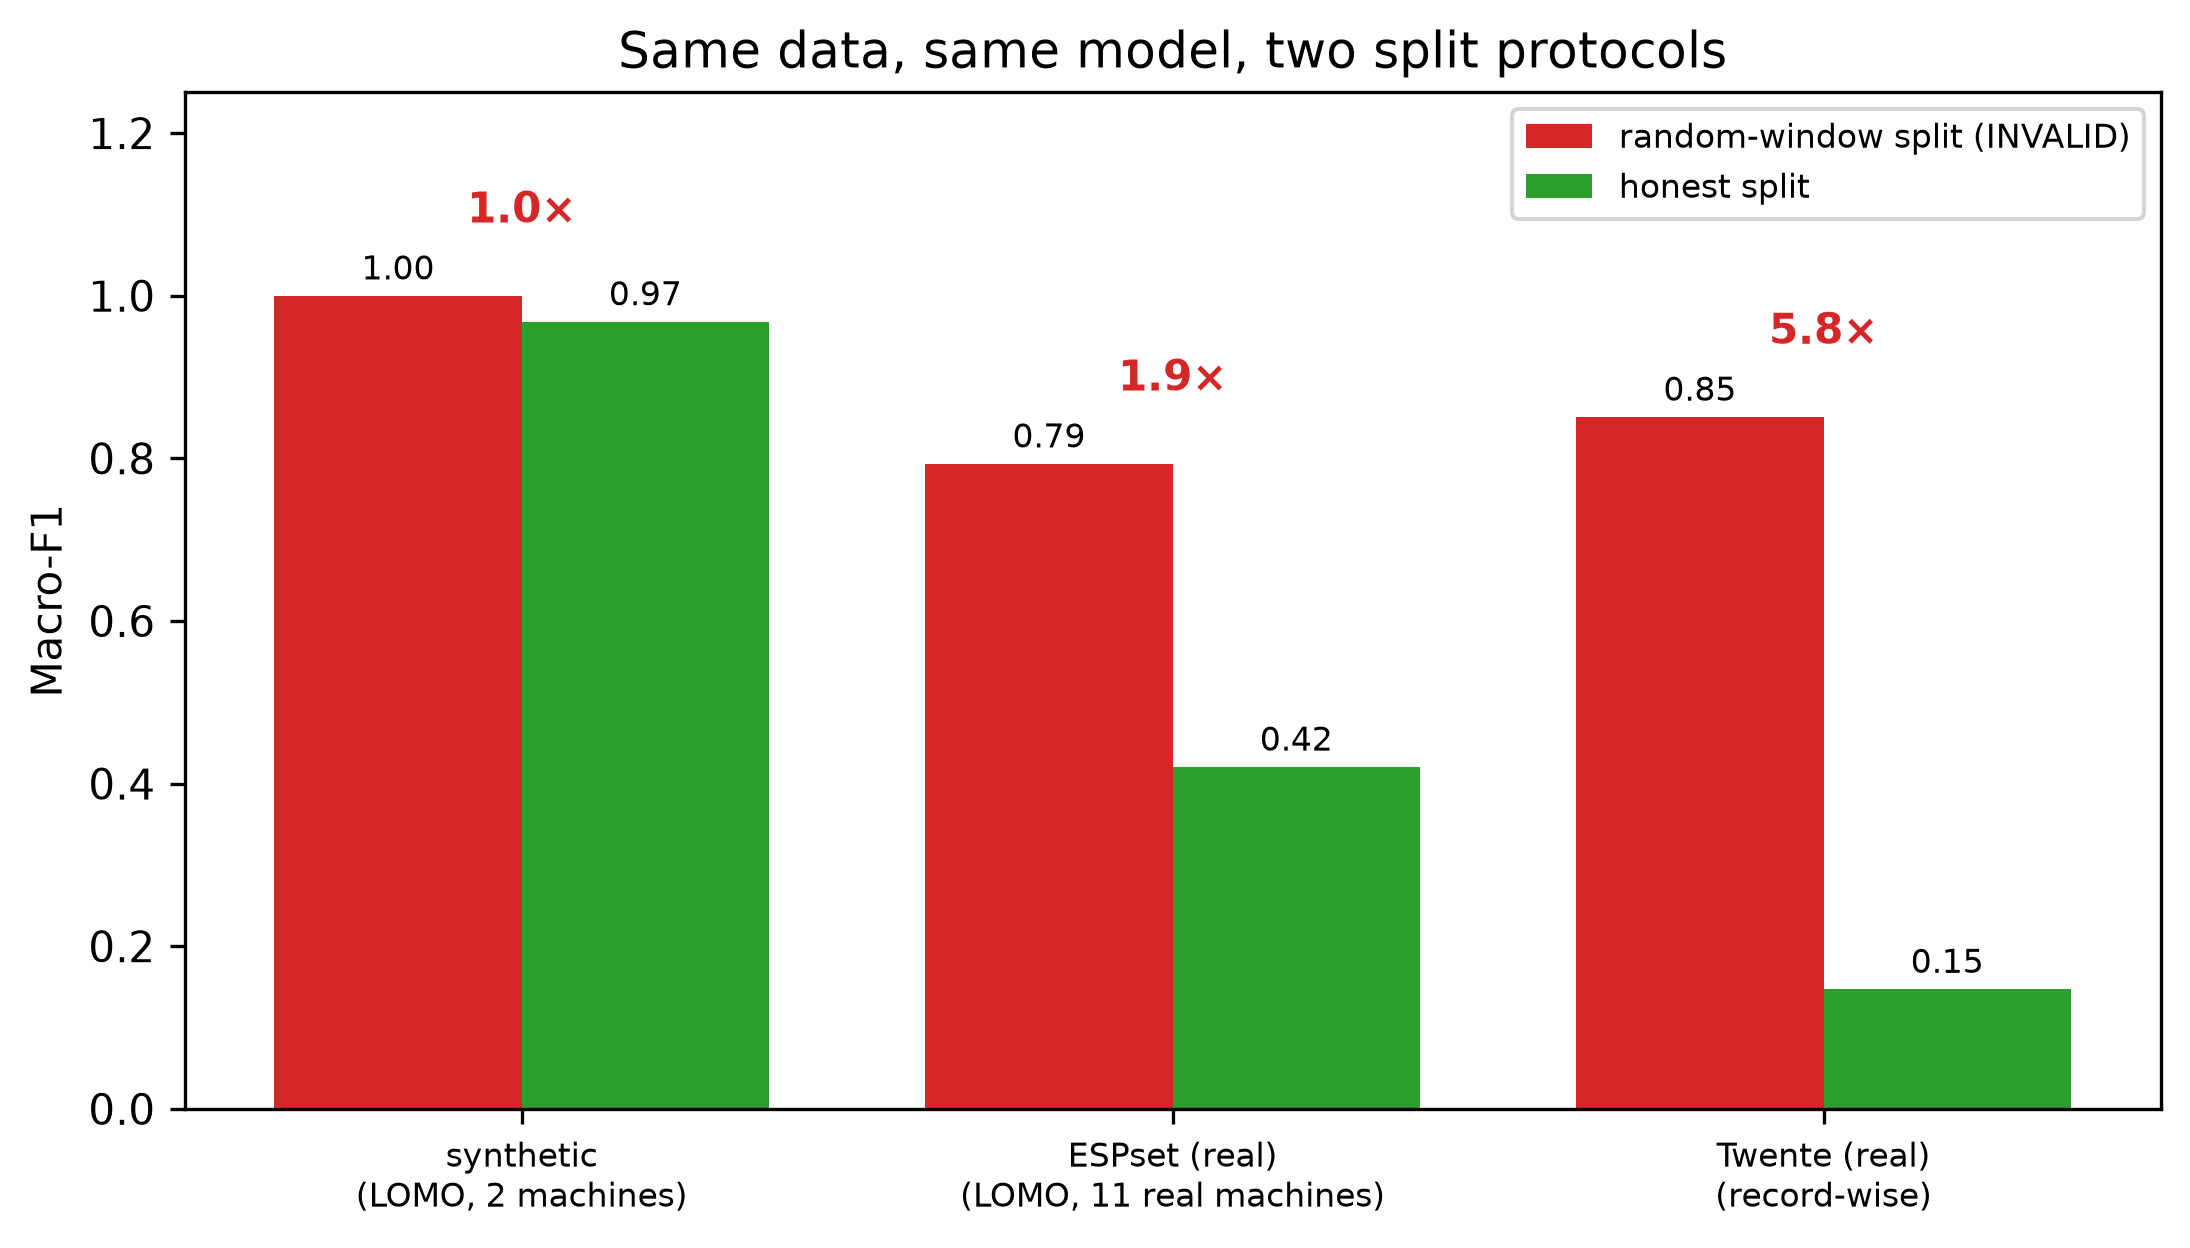
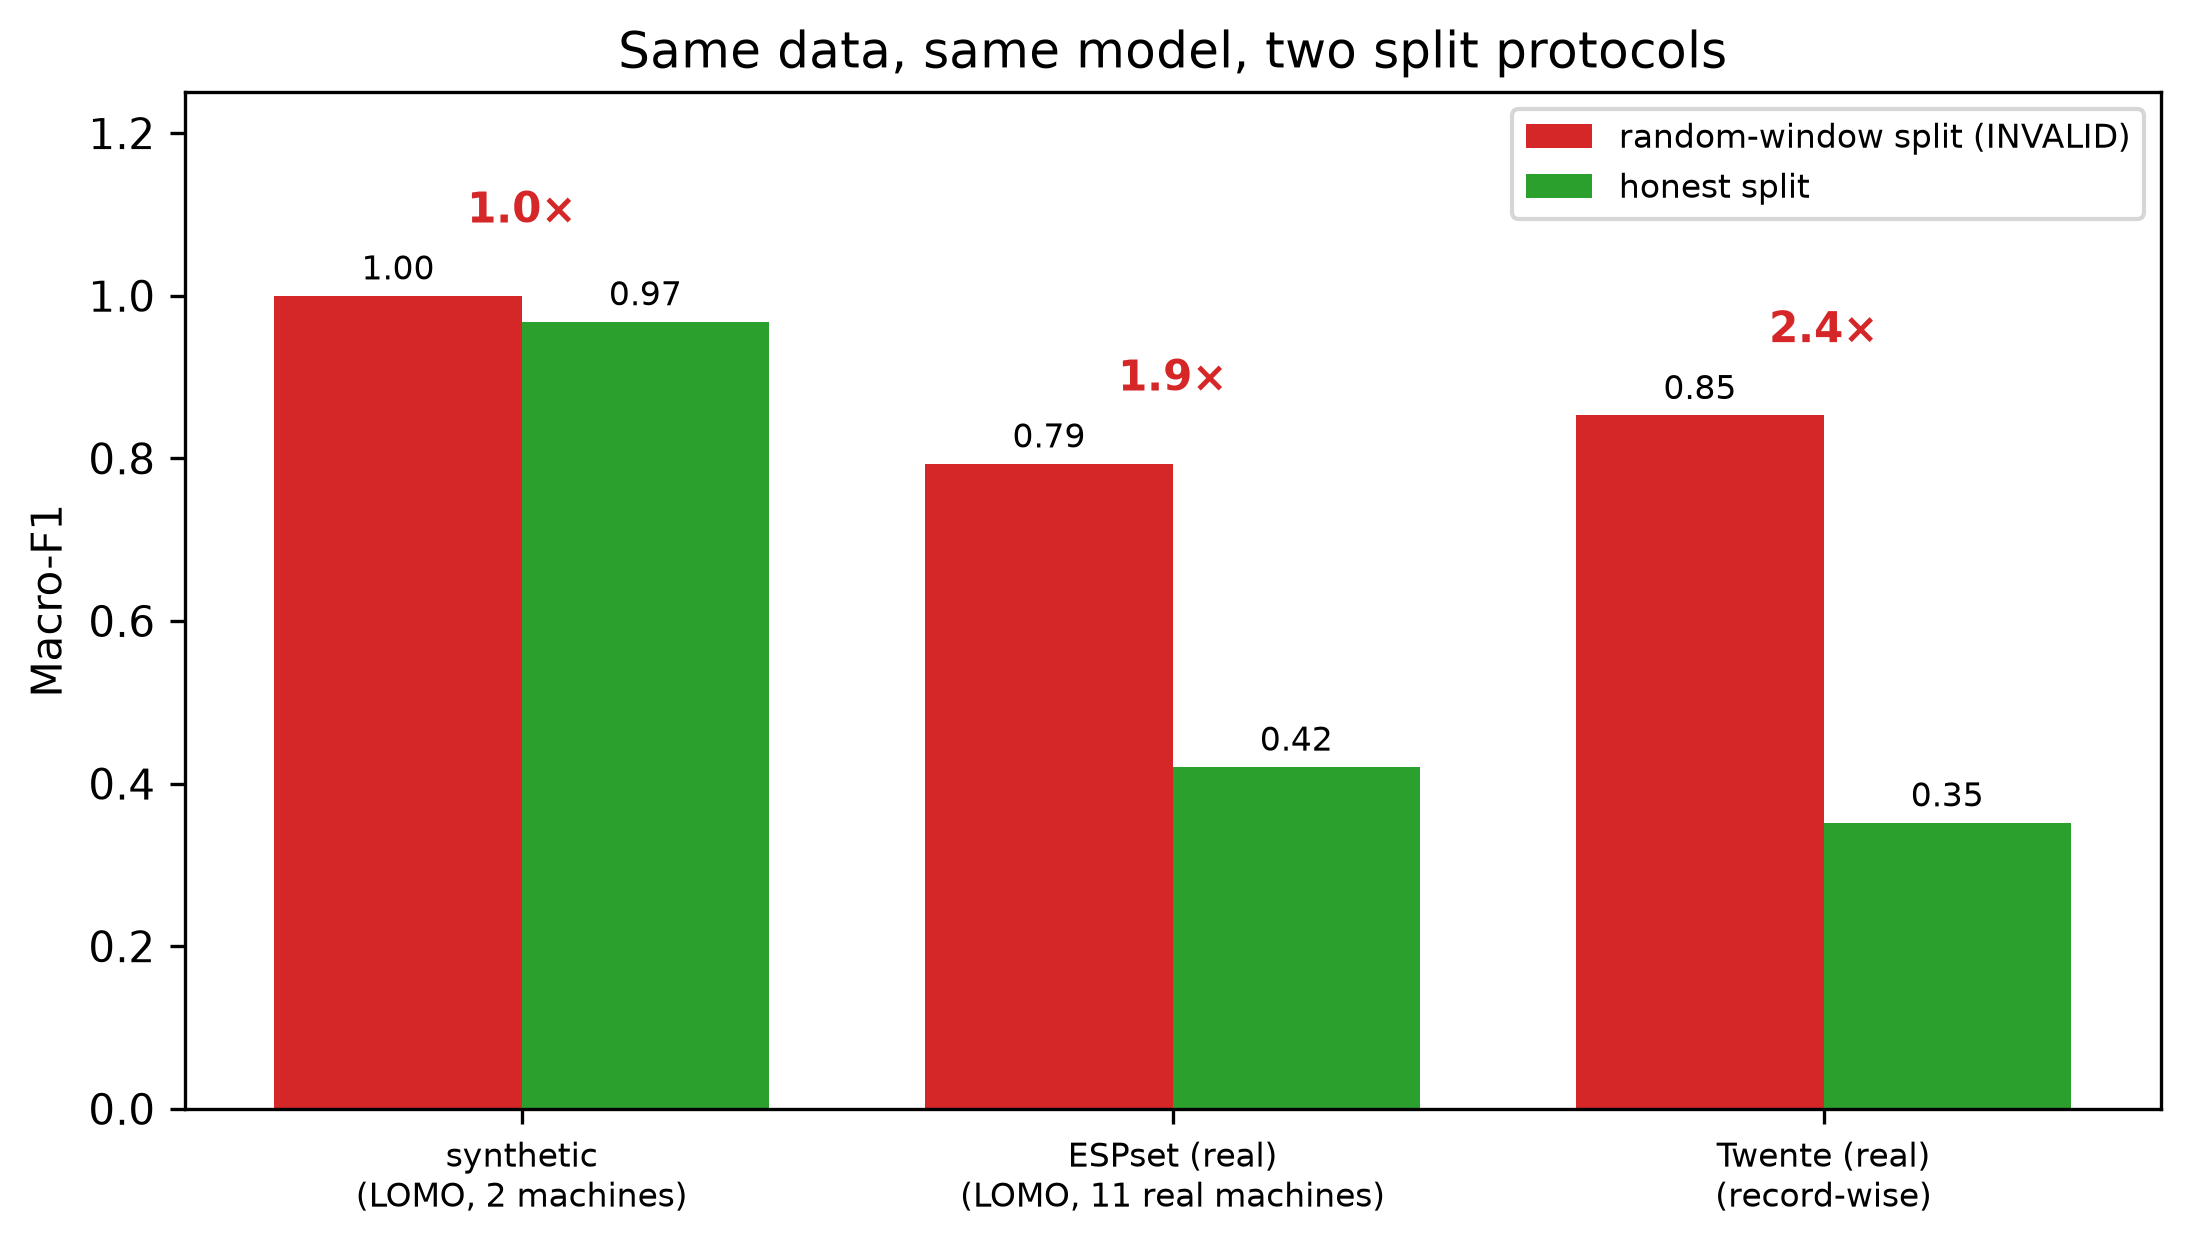
Close the vane-count question with a negative result; re-run Twente on the wider extraction
The remaining open lead on impeller vane count Z was that ch1 might be a motor-end
accelerometer, and vane pass would show better on a pump-end one. Extracted the second
vibration channel across all conditions and speeds to test it. It is refuted: ch3
yields no candidate Z at any of Motor-2's three speeds, where ch1 at least produced
inconsistent ones (order 4 and 6 at 50%, order 3 at 75%, none at 100%).

So all three routes are now closed - the datasheets give impeller diameter, material,
spare part number and pole count but never blade count; Grundfos does not publish it;
and neither accelerometer reveals it. Z stays None and the VPF, VPF-sideband and
impeller-damage features degrade out rather than being computed at a guessed frequency.
This is a reportable property of the dataset rather than a gap awaiting more effort,
and it matters: silently guessing Z would produce impeller-fault numbers that look
entirely fine and mean nothing.

Re-ran Twente on the wider extraction (150 CSVs, 395 records on ch1 against the
previous subset). TabPFN leads record-wise (0.446 vs LightGBM 0.352) and component-wise
(0.399 vs 0.349), but LightGBM wins the interpretable within-Motor-2 cross-operating
split (0.424 vs 0.369). Leakage inflation for LightGBM is 2.4x, random-window 0.853
against record-wise 0.352 - the same effect the ladder exists to expose.

The D14 severity plots are emitted by this script rather than make_figures, so they
[…]

Changed region(s): [[0.8073, 0.625, 0.9626, 0.8125], [0.8073, 0.25, 0.8384, 0.2812], [0.7763, 0.3125, 0.8073, 0.3438]]

diff --git a/src/pumpwatch/datasets/twente_raw.py b/src/pumpwatch/datasets/twente_raw.py
@@ -108,7 +108,7 @@ SPEED_RPM = {
     ("Motor-4", 70): 2075.0,
 }
 
-# Impeller vane counts are unavailable for this dataset, and both routes to them
+# Impeller vane counts are unavailable for this dataset, and all three routes to them
 # have been tried and have failed:
 #
 #   1. The pump datasheets in Appendices/Other/Datasheets were extracted and their
@@ -122,11 +122,18 @@ SPEED_RPM = {
 #      order 6 depending on speed with no consistent 2Z harmonic, and Motor-4's
 #      strongest order is 2, which is not a plausible vane count.
 #
-# Next thing to try: ch1 may be a motor-end sensor, and vane pass shows best on a
-# pump-end one. Extract another vibration channel and re-run estimate_vane_count.
+#   3. The second vibration channel was extracted specifically to test whether ch1
+#      is a motor-end sensor and vane pass would show better on a pump-end one.
+#      It does not: ch3 yields *no* candidate Z at any of Motor-2's three speeds,
+#      where ch1 at least produced inconsistent ones. The hypothesis is refuted,
+#      not merely untested.
 #
-# Until then these stay None, so VPF, VPF-sideband and impeller-damage features
-# degrade out rather than being computed at a guessed frequency.
+# That is every route available: the manufacturer does not publish Z, and the data
+# do not reveal it. These stay None, so VPF, VPF-sideband and impeller-damage
+# features degrade out rather than being computed at a guessed frequency. This is a
+# reportable property of the dataset, not a gap awaiting more effort - which matters
+# because a paper that silently guessed Z would produce impeller-fault numbers that
+# look fine and mean nothing.
 MOTOR_TO_N_VANES: dict[str, Optional[int]] = {
     "Motor-2": None,
     "Motor-4": None,
